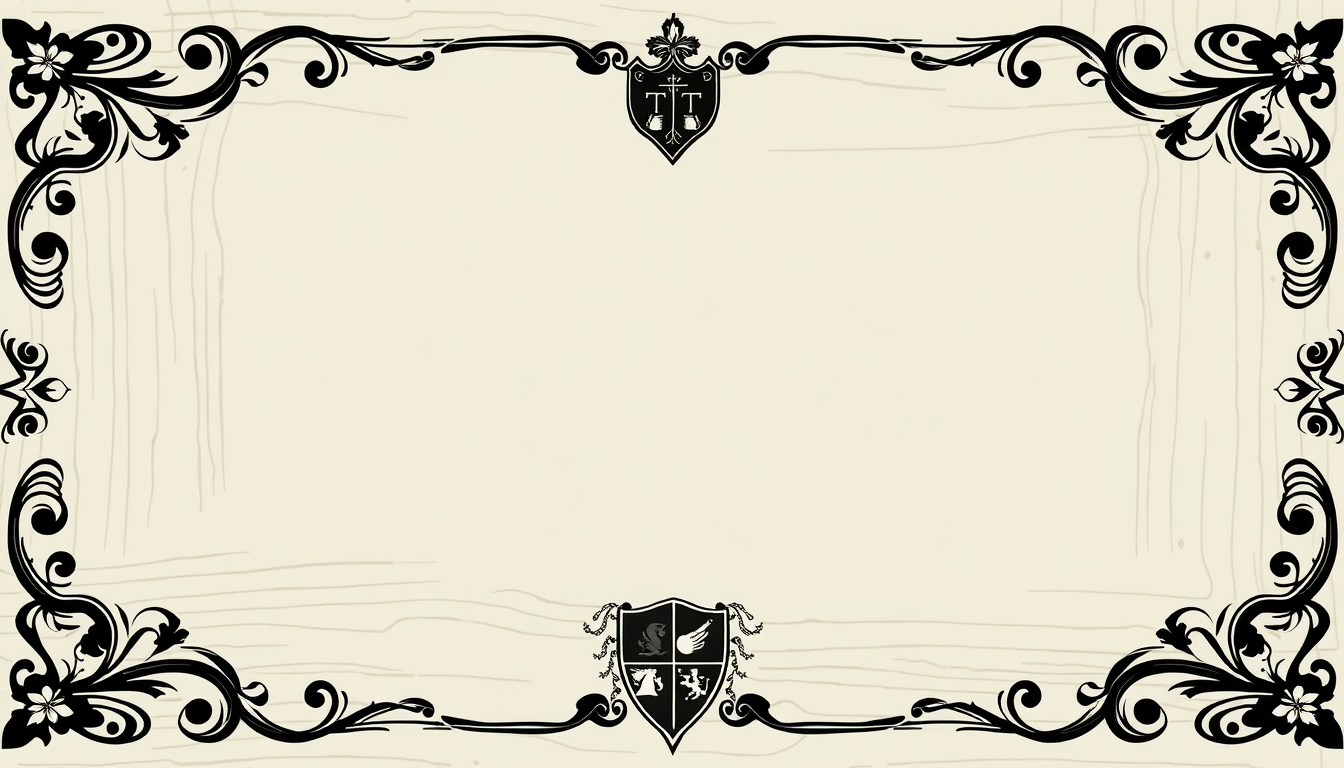
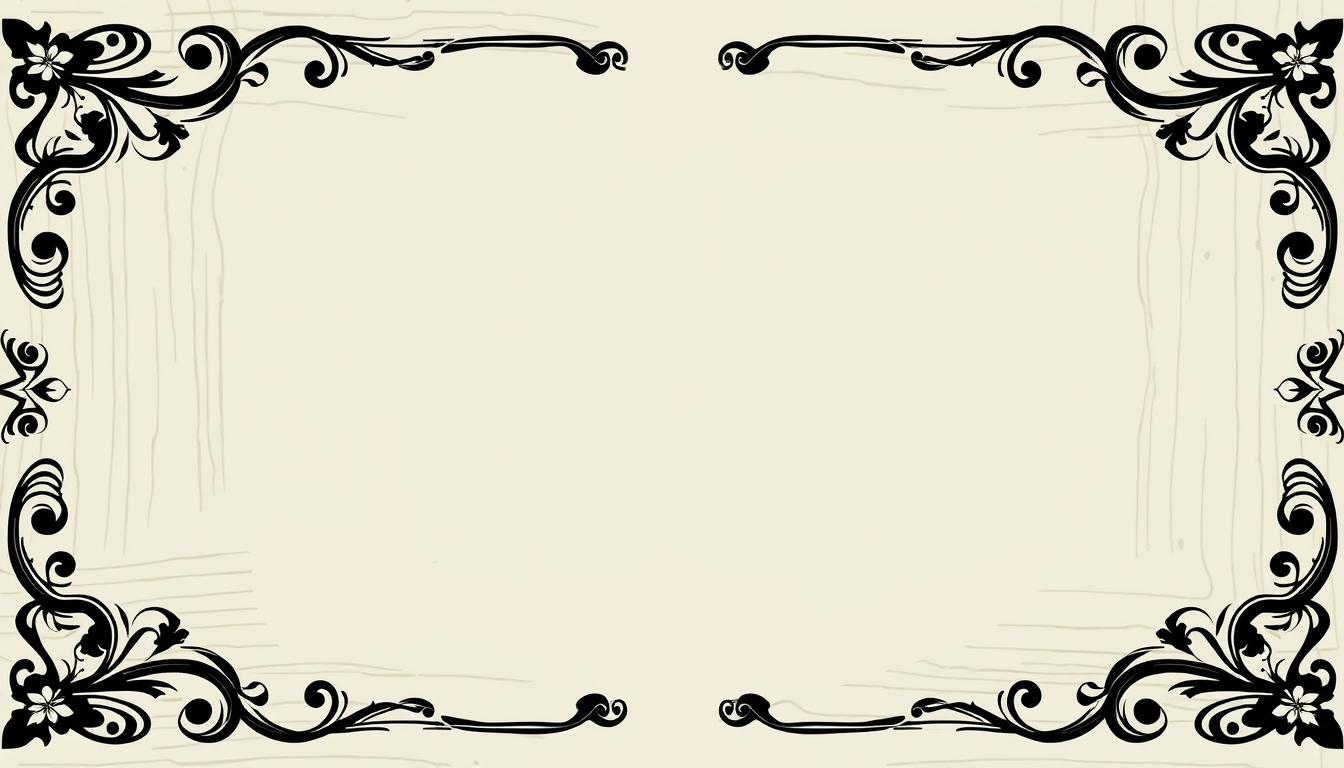
Mise à jour du fond et adaptation de toutes les vues

Changed region(s): [[0.4375, 0.7812, 0.5625, 0.9688], [0.4688, 0.0312, 0.5625, 0.2188]]

diff --git a/Front/src/main/java/fr/butinfoalt/riseandfall/front/authentification/LoginController.java b/Front/src/main/java/fr/butinfoalt/riseandfall/front/authentification/LoginController.java
@@ -11,6 +11,7 @@ import javafx.fxml.FXML;
 import javafx.scene.Scene;
 import javafx.scene.control.Label;
 import javafx.scene.control.PasswordField;
+import javafx.scene.control.ScrollPane;
 import javafx.scene.control.TextField;
 import javafx.scene.image.ImageView;
 import javafx.scene.input.KeyCode;
@@ -28,6 +29,12 @@ public class LoginController implements ViewController {
     public ImageView backgroundImageView;
 
     /**
+     * Champ pour le composant racine de la vue.
+     */
+    @FXML
+    public ScrollPane root;
+
+    /**
      * Champ pour le composant du nom d'utilisateur.
      */
     public TextField username;
@@ -42,14 +49,13 @@ public class LoginController implements ViewController {
      */
     public Label errorMessage;
 
-
     /**
      * Méthode d'initialisation de la vue appelée par JavaFX
      */
     @FXML
     public void initialize() {
         Scene scene = RiseAndFallApplication.getMainWindow().getScene();
-        UIUtils.setBackgroundImage("images/background.png", scene, this.backgroundImageView);
+        UIUtils.setBackgroundImage("images/background.png", scene, this.backgroundImageView, this.root);
     }
 
     /**

diff --git a/Front/src/main/java/fr/butinfoalt/riseandfall/front/game/MainRunningGameController.java b/Front/src/main/java/fr/butinfoalt/riseandfall/front/game/MainRunningGameController.java
@@ -16,6 +16,7 @@ import javafx.fxml.FXML;
 import javafx.scene.Scene;
 import javafx.scene.control.Button;
 import javafx.scene.control.Label;
+import javafx.scene.control.ScrollPane;
 import javafx.scene.image.ImageView;
 import javafx.scene.layout.HBox;
 import javafx.scene.layout.VBox;
@@ -82,6 +83,11 @@ public class MainRunningGameController implements ViewController {
      */
     @FXML
     public ImageView backgroundImageView;
+
+    /**
+     * Champ pour le composant racine de la vue.
+     */
+    public ScrollPane root;
 
     /**
      * Conteneur pour les boutons de la barre d'outils.
@@ -178,7 +184,7 @@ public class MainRunningGameController implements ViewController {
     @FXML
     public void initialize() {
         Scene scene = RiseAndFallApplication.getMainWindow().getScene();
-        UIUtils.setBackgroundImage("images/background.png", scene, this.backgroundImageView);
+        UIUtils.setBackgroundImage("images/background.png", scene, this.backgroundImageView, this.root);
 
         if (!Environment.DEBUG_MODE) {
             this.buttonsContainer.getChildren().remove(this.nextTurnButton);

diff --git a/Front/src/main/java/fr/butinfoalt/riseandfall/front/game/orders/OrderAttackController.java b/Front/src/main/java/fr/butinfoalt/riseandfall/front/game/orders/OrderAttackController.java
@@ -18,12 +18,19 @@ import javafx.fxml.FXML;
 import javafx.scene.Scene;
 import javafx.scene.control.ChoiceBox;
 import javafx.scene.control.Label;
+import javafx.scene.control.ScrollPane;
 import javafx.scene.image.ImageView;
 
 /**
  * Contrôleur pour la vue de création ou d'édition d'une attaque.
  */
 public class OrderAttackController implements ViewController {
+    /**
+     * Champ pour le composant racine de la vue.
+     */
+    @FXML
+    public ScrollPane root;
+
     /**
      * Les unités utilisées pour l'attaque.
      */
@@ -97,7 +104,7 @@ public class OrderAttackController implements ViewController {
     @FXML
     public void initialize() {
         Scene scene = RiseAndFallApplication.getMainWindow().getScene();
-        UIUtils.setBackgroundImage("images/background.png", scene, this.backgroundImageView);
+        UIUtils.setBackgroundImage("images/background.png", scene, this.backgroundImageView, this.root);
 
         NamedItemStringConverter<OtherClientPlayer> converter = new NamedItemStringConverter<>();
         targetPlayerSelector.setConverter(converter);

diff --git a/Front/src/main/java/fr/butinfoalt/riseandfall/front/game/gamelist/GameListController.java b/Front/src/main/java/fr/butinfoalt/riseandfall/front/game/gamelist/GameListController.java
@@ -19,6 +19,7 @@ import javafx.scene.Node;
 import javafx.scene.Scene;
 import javafx.scene.control.ChoiceBox;
 import javafx.scene.control.Label;
+import javafx.scene.control.ScrollPane;
 import javafx.scene.image.ImageView;
 import javafx.scene.layout.VBox;
 import javafx.scene.paint.Color;
@@ -47,6 +48,12 @@ public class GameListController implements ViewController {
     private ImageView backgroundImageView;
 
     /**
+     * Champ pour le composant racine de la vue.
+     */
+    @FXML
+    public ScrollPane root;
+
+    /**
      * Animation de clignotement des instructions.
      */
     private Timeline instructionsBlinkTransition;
@@ -60,7 +67,7 @@ public class GameListController implements ViewController {
     @FXML
     public void initialize() {
         Scene scene = RiseAndFallApplication.getMainWindow().getScene();
-        UIUtils.setBackgroundImage("images/background.png", scene, this.backgroundImageView);
+        UIUtils.setBackgroundImage("images/background.png", scene, this.backgroundImageView, this.root);
 
 
         Color startColor = Color.BLACK;

diff --git a/Front/src/main/java/fr/butinfoalt/riseandfall/front/authentification/RegisterController.java b/Front/src/main/java/fr/butinfoalt/riseandfall/front/authentification/RegisterController.java
@@ -11,6 +11,7 @@ import javafx.fxml.FXML;
 import javafx.scene.Scene;
 import javafx.scene.control.Label;
 import javafx.scene.control.PasswordField;
+import javafx.scene.control.ScrollPane;
 import javafx.scene.control.TextField;
 import javafx.scene.image.ImageView;
 import javafx.scene.input.KeyCode;
@@ -27,6 +28,12 @@ public class RegisterController implements ViewController {
      */
     @FXML
     public ImageView backgroundImageView;
+
+    /**
+     * Champ pour le composant racine de la vue.
+     */
+    @FXML
+    public ScrollPane root;
 
     /**
      * Champ pour le composant du nom d'utilisateur.
@@ -59,7 +66,7 @@ public class RegisterController implements ViewController {
     @FXML
     public void initialize() {
         Scene scene = RiseAndFallApplication.getMainWindow().getScene();
-        UIUtils.setBackgroundImage("images/background.png", scene, this.backgroundImageView);
+        UIUtils.setBackgroundImage("images/background.png", scene, this.backgroundImageView, this.root);
     }
 
     /**

diff --git a/Front/src/main/java/fr/butinfoalt/riseandfall/front/game/orders/OrderAttacksListController.java b/Front/src/main/java/fr/butinfoalt/riseandfall/front/game/orders/OrderAttacksListController.java
@@ -19,6 +19,7 @@ import javafx.scene.Node;
 import javafx.scene.Scene;
 import javafx.scene.control.Button;
 import javafx.scene.control.Label;
+import javafx.scene.control.ScrollPane;
 import javafx.scene.image.ImageView;
 import javafx.scene.layout.VBox;
 
@@ -51,6 +52,11 @@ public class OrderAttacksListController implements ViewController {
      */
     @FXML
     public ImageView backgroundImageView;
+
+    /**
+     * Champ pour le composant racine de la vue.
+     */
+    public ScrollPane root;
 
     /**
      * Titre affiché lorsque aucune attaque n'est programmée.
@@ -91,7 +97,7 @@ public class OrderAttacksListController implements ViewController {
     @FXML
     public void initialize() {
         Scene scene = RiseAndFallApplication.getMainWindow().getScene();
-        UIUtils.setBackgroundImage("images/background.png", scene, this.backgroundImageView);
+        UIUtils.setBackgroundImage("images/background.png", scene, this.backgroundImageView, this.root);
     }
 
     /**

diff --git a/Front/src/main/java/fr/butinfoalt/riseandfall/front/util/UIUtils.java b/Front/src/main/java/fr/butinfoalt/riseandfall/front/util/UIUtils.java
@@ -12,7 +12,7 @@ import java.util.HashMap;
 import java.util.Objects;
 
 public class UIUtils {
-    private static final int BACKGROUND_IMAGE_PADDING_HORIZONTAL = 113, BACKGROUND_IMAGE_PADDING_VERTICAL = 171;
+    private static final int BACKGROUND_IMAGE_PADDING_HORIZONTAL = 242, BACKGROUND_IMAGE_PADDING_VERTICAL = 89;
 
     private static final HashMap<String, Image> imagesCache = new HashMap<>();
 

diff --git a/Front/src/main/java/fr/butinfoalt/riseandfall/front/game/orders/OrderController.java b/Front/src/main/java/fr/butinfoalt/riseandfall/front/game/orders/OrderController.java
@@ -41,6 +41,9 @@ public class OrderController implements ViewController {
      */
     private ObjectIntMap<BuildingType> pendingBuildings;
 
+    /**
+     * Champ pour le composant racine de la vue.
+     */
     @FXML
     public ScrollPane root;
 
